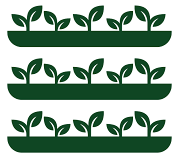
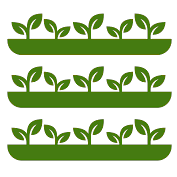
Modify image colors Shrink images Add css custom properties for  theme colors

diff --git a/src/components/Timeline.svelte b/src/components/Timeline.svelte
@@ -17,8 +17,8 @@
 <style>
   div.monthLabel {
     padding: 0.3rem 0.5rem;
-    border: 1px solid green;
-    border-bottom: 2px solid green;
+    border: 1px solid var(--themeColorDark);
+    border-bottom: 2px solid var(--themeColorDark);
     background-color: #fefefe;
     border-radius: 0.3rem;
     display: inline-block;
@@ -87,11 +87,11 @@
     display: flex;
     align-items: center;
     justify-content: center;
-    color: green;
+    color: var(--themeColorDark);
   }
 
   .itemMarker.complete {
-    border: 2px solid green;
+    border: 2px solid var(--themeColorDark);
   }
 </style>
 

diff --git a/src/components/Nav.svelte b/src/components/Nav.svelte
@@ -39,7 +39,7 @@
     width: 95%;
     margin-left: 2.5%;
     height: 2px;
-    background-color: #a5ce44;
+    background-color: var(--themeColor);
     display: block;
     bottom: -1px;
   }

diff --git a/static/global.css b/static/global.css
@@ -4,6 +4,11 @@
   padding: 0 8%;
 }
 
+:root {
+  --themeColor: #a5ce44;
+  --themeColorDark: #457b11;
+}
+
 body {
   line-height: 1.5rem;
 }
